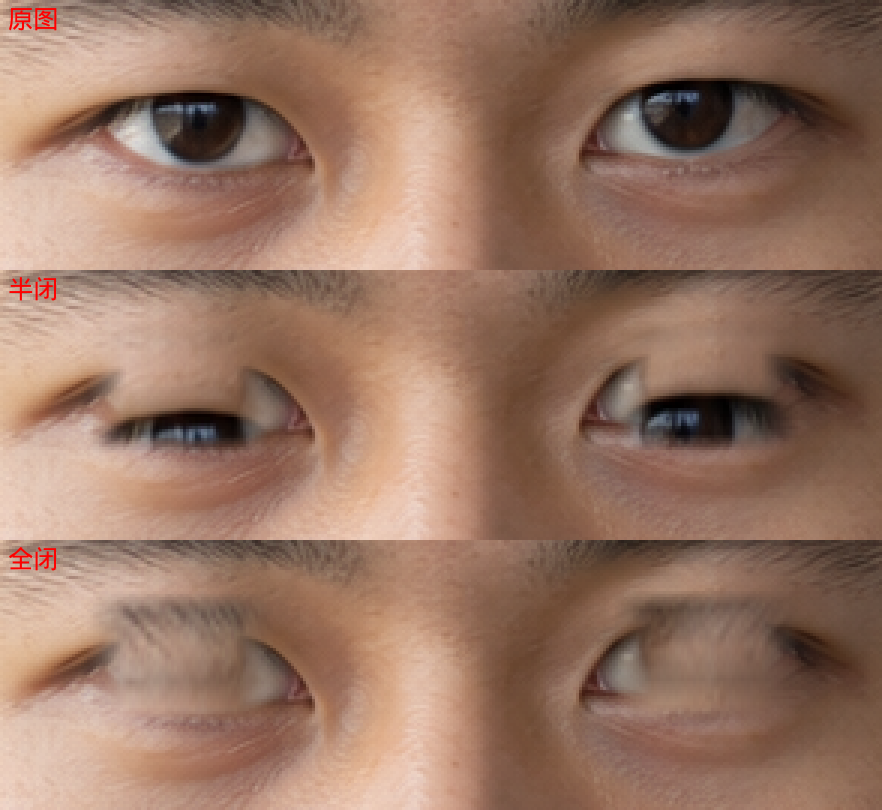
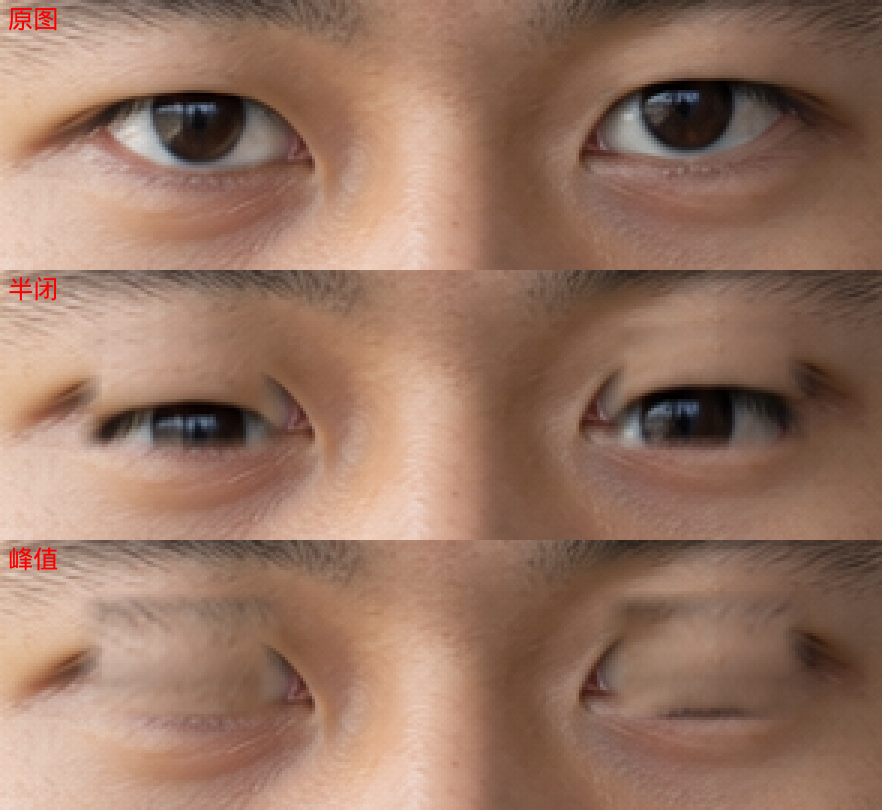
自迭代 · patch frontend/index.html · 前端加眨眼开关（默认关），说明单图眨眼的固有限制

diff --git a/frontend/index.html b/frontend/index.html
@@ -250,6 +250,15 @@
             <option value="1.6">动作：活跃</option>
           </select>
         </div>
+        <!-- 眨眼：单图没有「闭眼后」的眼皮纹理，任何合成都是把上方皮肤拉下来，
+             视觉复核三轮都判「斜线 + 内眼角尖角 + 涂抹感」。这是单图方案的
+             物理上限，不是参数没调好，所以默认关闭、把选择权交给用户。 -->
+        <div class="av2-row av2-row-blink">
+          <label class="av2-blink" title="眨眼：单图合成，闭眼处会像一块模糊皮肤；想要更干净就保持不勾">
+            <input type="checkbox" id="av2Blink" />
+            <span>眨眼<span class="av2-blink-hint">（单图合成，效果一般，默认关）</span></span>
+          </label>
+        </div>
         <!-- 口型幅度：增益作用在「张口曲线」上，不是硬拉伸。
              实测同一段语音：1.0 时最大开口 31px、1.6 时 56px，张开帧比例也翻倍。
              往右更明显但有代价（嘴角张力、唇纹拉伸），交给用户自己权衡。 -->
